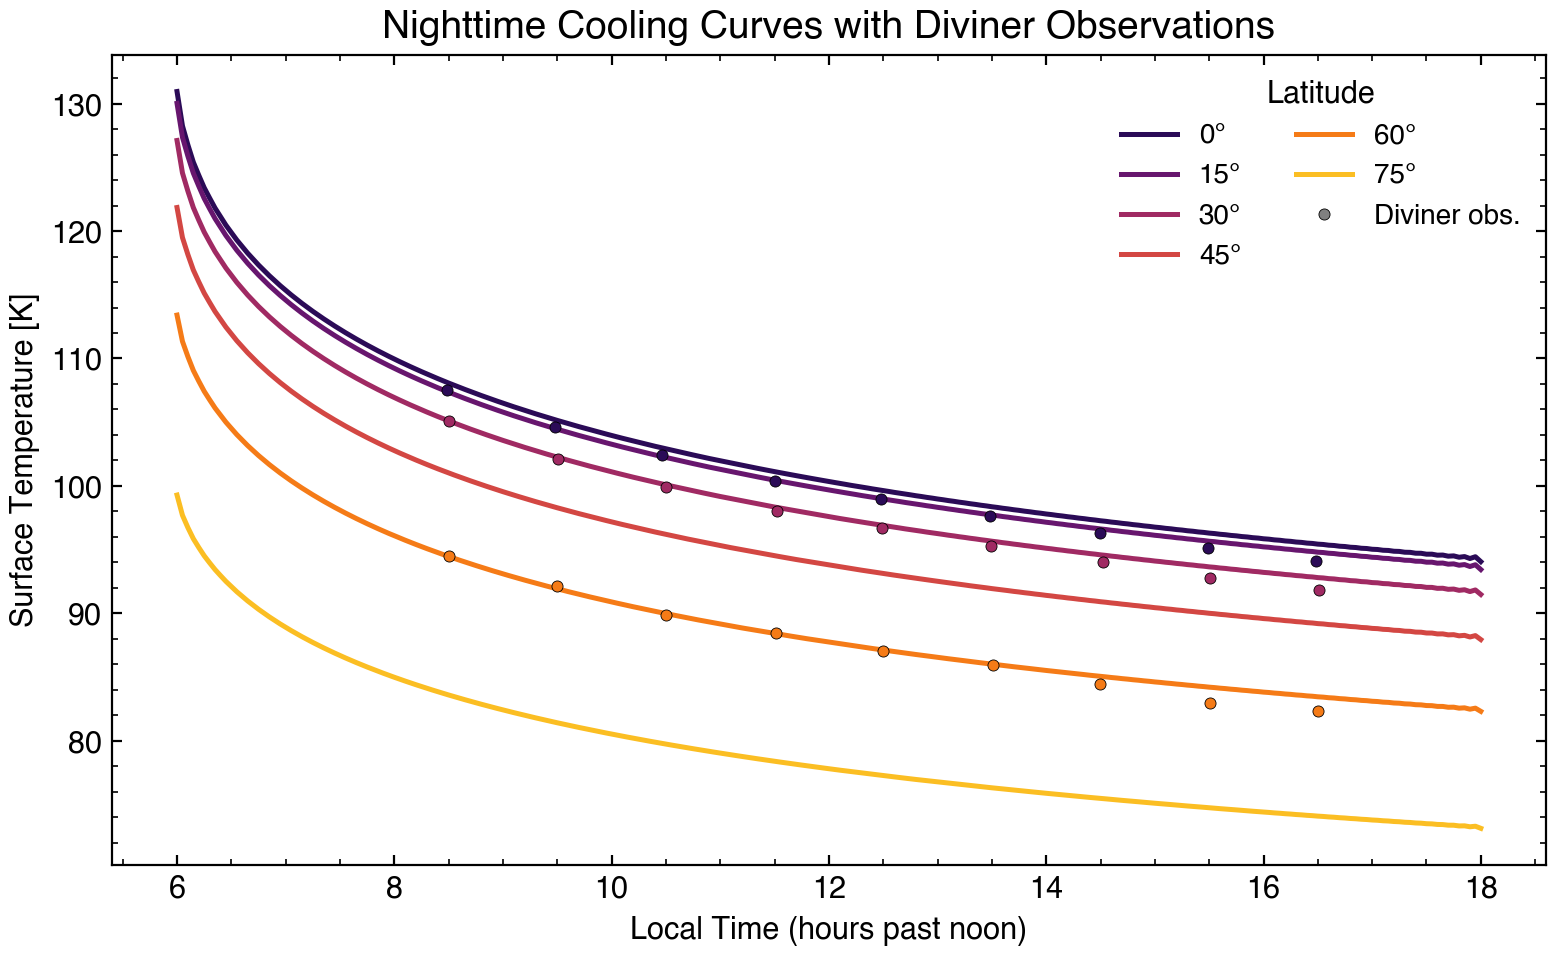
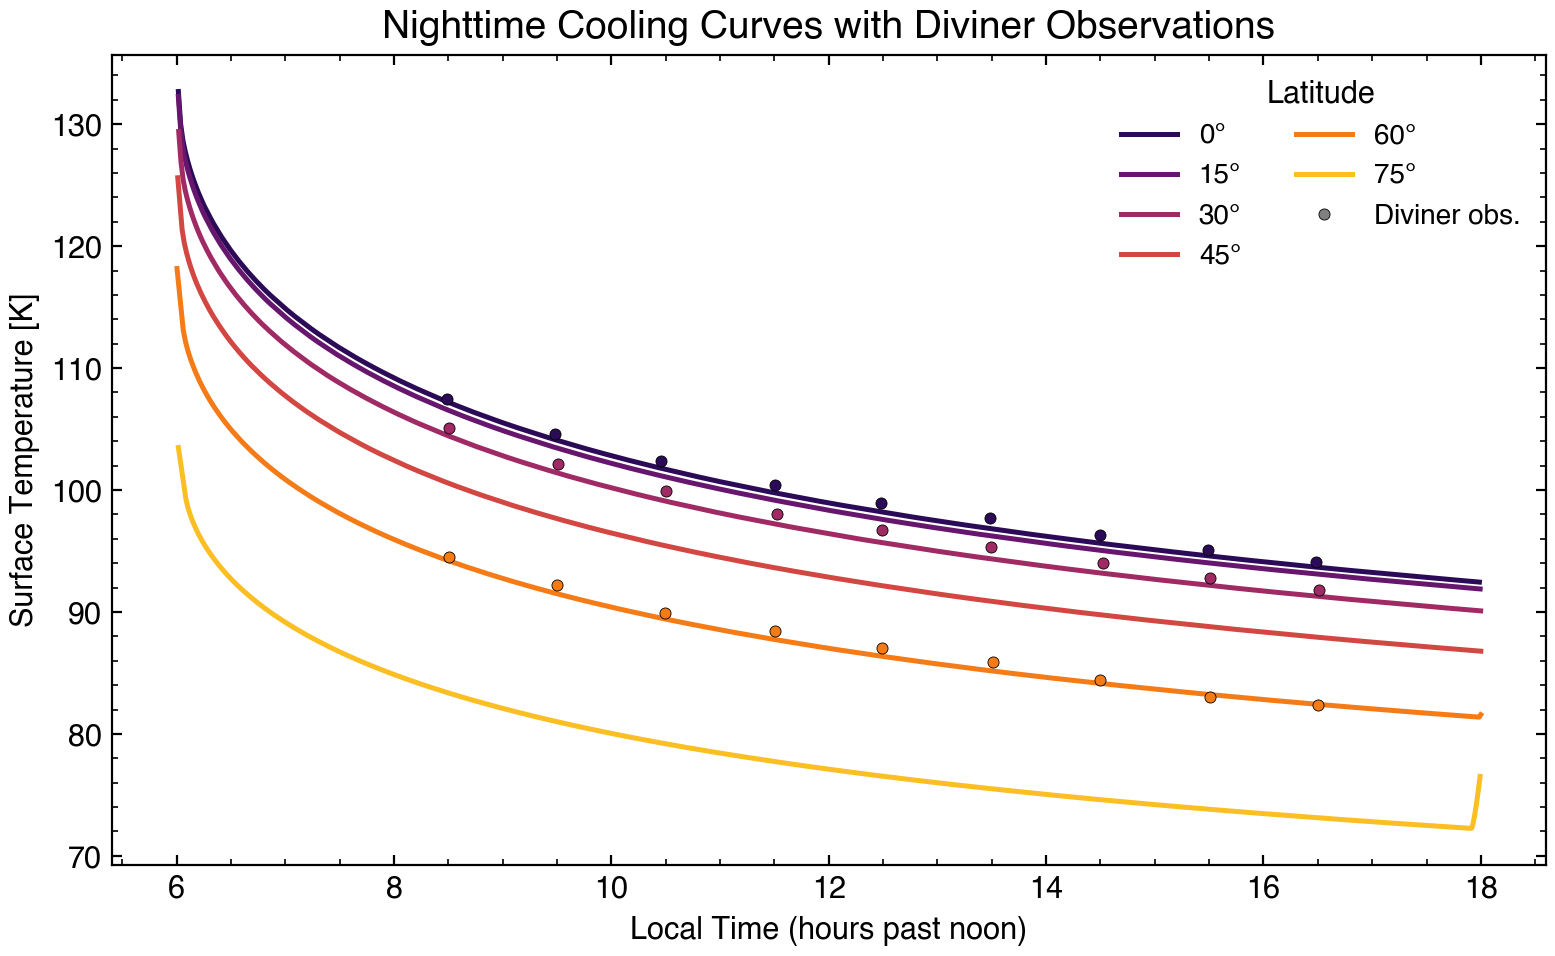
Update validation plots

diff --git a/docs/generate_validation_plots.py b/docs/generate_validation_plots.py
@@ -324,8 +324,12 @@ def main():
             highland_models[lat] = _run(lat_deg=lat)
     plot_multilatitude(highland_models, OUTDIR)
 
-    print("\n3/4  Nighttime cooling with Diviner data...")
-    plot_nighttime_cooling(highland_models, OUTDIR)
+    print("\n3/4  Nighttime cooling with Diviner data (explicit solver)...")
+    explicit_models = {}
+    for lat in LATITUDES:
+        print(f"    Running explicit lat={lat}\u00b0...")
+        explicit_models[lat] = _run(lat_deg=lat, solver="explicit")
+    plot_nighttime_cooling(explicit_models, OUTDIR)
 
     print("\n4/4  Mean T vs latitude with Apollo data...")
     mare_models = {}
